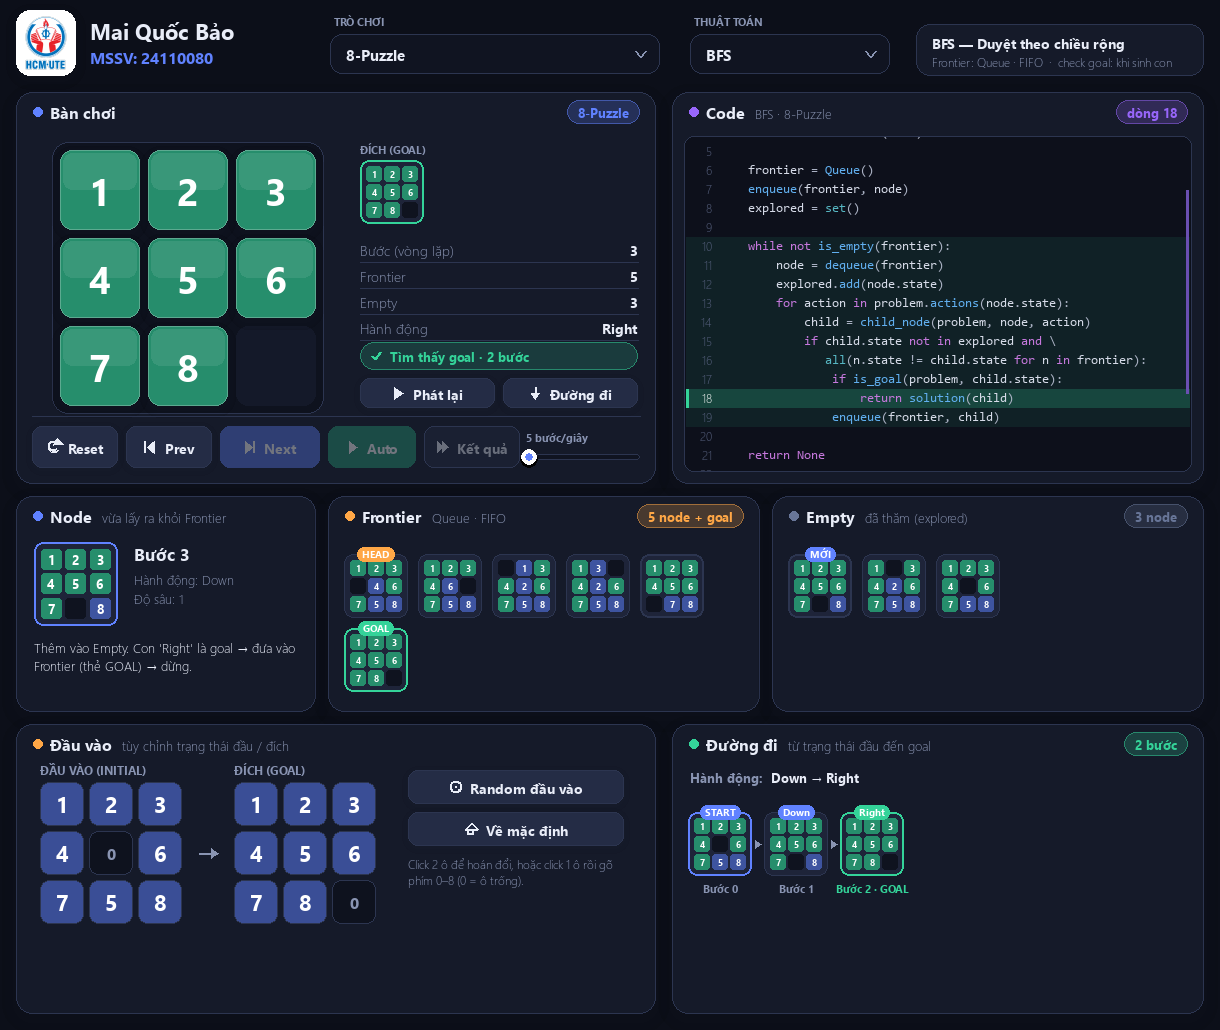
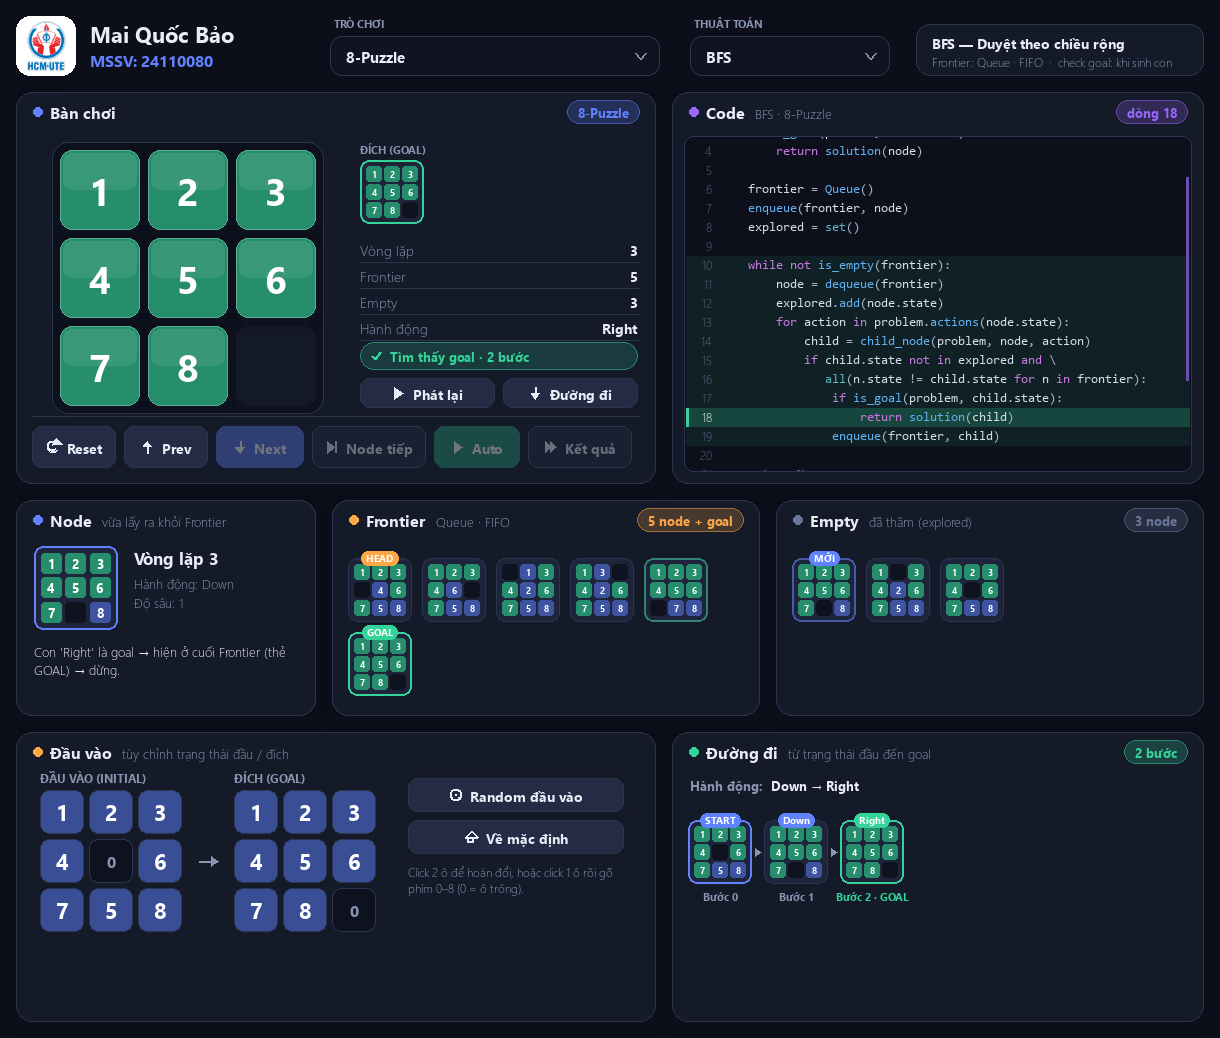
sửa lại screenshot

diff --git a/README.md b/README.md
@@ -43,7 +43,7 @@
 
 ## Ảnh chụp ứng dụng
 
-| 8-Puzzle · BFS đang chạy | 8-Puzzle · DFS (đường đi dài, cuộn được) |
+| 8-Puzzle · BFS đang chạy từng dòng (giữa vòng lặp 2) | 8-Puzzle · DFS (đường đi dài, cuộn được) |
 |---|---|
 | ![BFS đang chạy](screenshots/01_puzzle_bfs_running.png) | ![DFS](screenshots/03_puzzle_dfs.png) |
 
